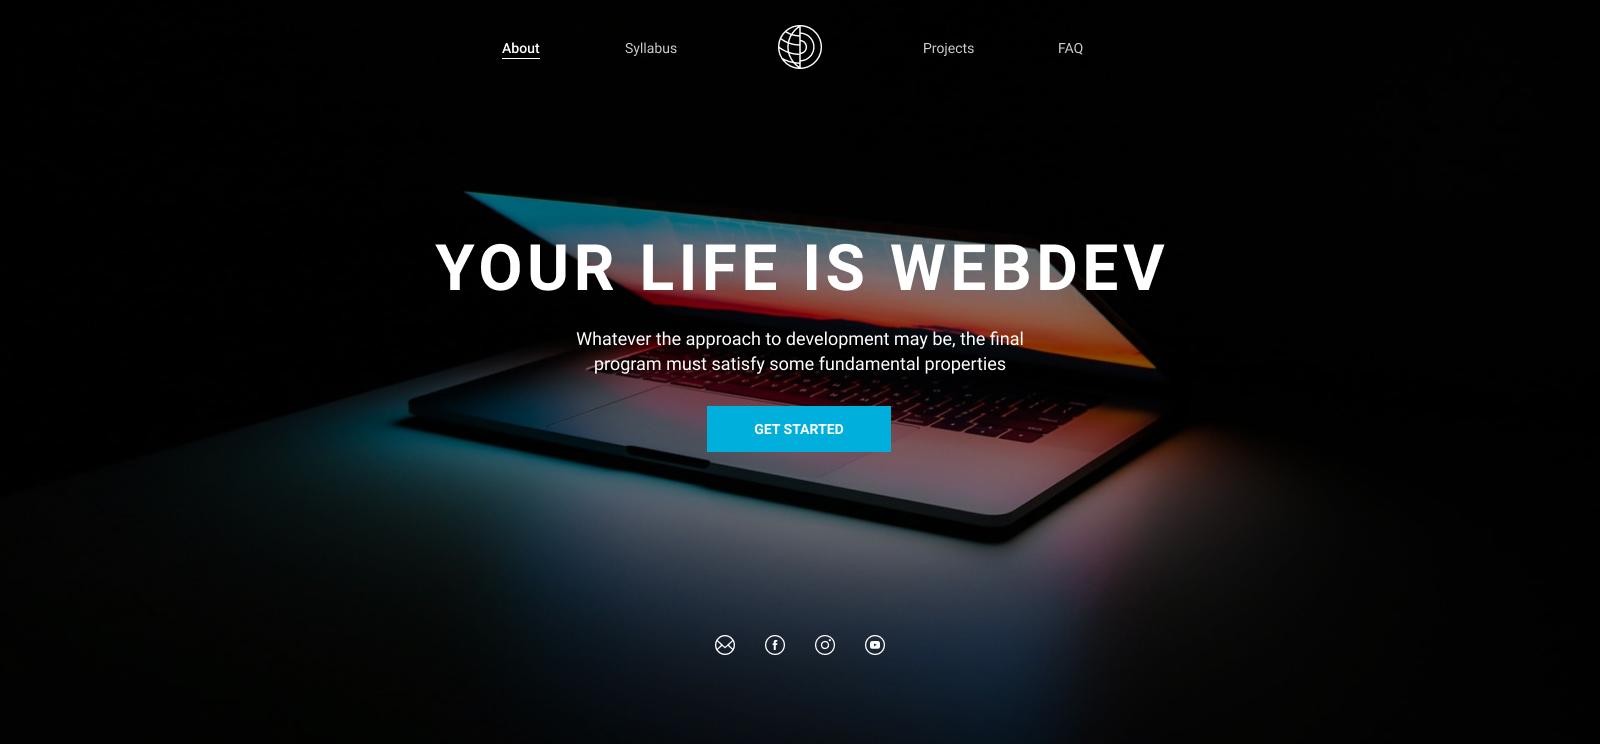
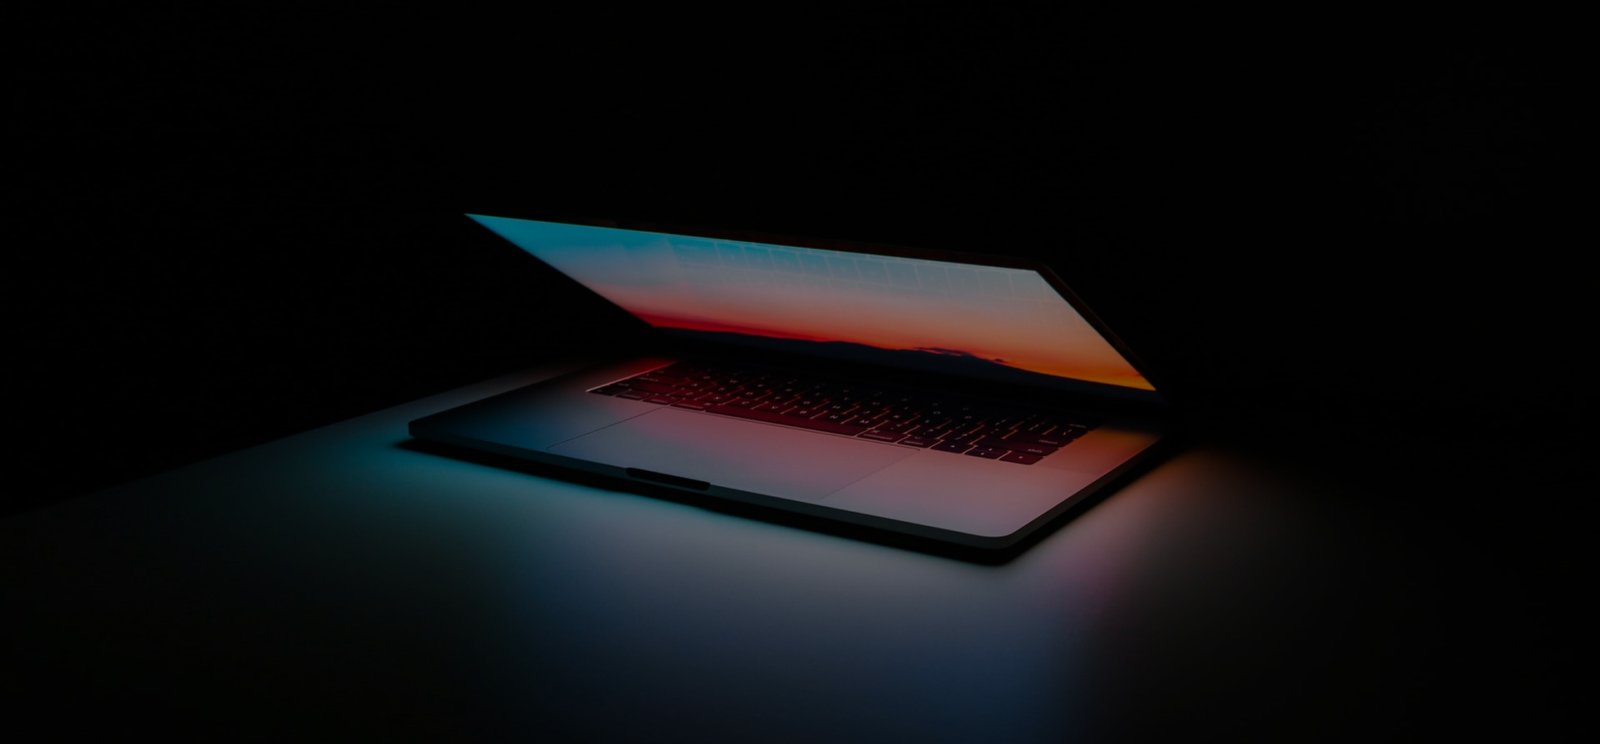
feat: add your-life part

diff --git a/index.html b/index.html
@@ -1,0 +1,95 @@
+<!DOCTYPE html>
+<html lang="en">
+<head>
+    <meta charset="UTF-8">
+    <meta name="viewport" content="width=device-width, initial-scale=1.0">
+    <title>Webdev</title>
+    <link rel="stylesheet" href="./reset.css">
+    <link rel="stylesheet" href="./style.css">
+</head>
+<body>
+    <header class="header">
+        <ul class="nav wrap">
+            <li class="nav-item">
+                <a href="#">About</a>
+            </li>
+            <li class="nav-item">
+                <a href="#">Syllabus</a>
+            </li>
+            <li class="nav-item">
+                <a href="#">
+                    <img class="nav-logo" src="./assets/vectors/1st_sceen_logo.svg" alt="logo">
+                </a>                
+            </li>
+            <li class="nav-item">
+                <a href="#">Projects</a>
+            </li>
+            <li class="nav-item">
+                <a href="#">FAQ</a>
+            </li>
+        </ul>
+    </header>
+    <main class="main">
+        <section class="your-life">
+            <div class="wrap your-life__position">
+                <h1 class="main-title">your life is webdev</h1>
+                <p class="your-life-description">Whatever the approach to 
+                    development may be, the final program must satisfy some 
+                    fundamental properties
+                </p>
+                <button class="your-life-get-started">get started</button>
+                <ul class="socials">
+                    <li class="socials-item">
+                        <a href="#">
+                            <svg width="20" height="20" viewBox="0 0 20 20" fill="none" xmlns="http://www.w3.org/2000/svg">
+                                <path d="M9.99781 0C4.51913 0 0.035774 4.45778 0.000227016 9.93778C-0.0175465 12.6089 1.00887 15.1289 2.88397 17.0267C4.75908 18.9289 7.26514 19.9822 9.9356 20C9.9356 20 9.99781 20 10.0023 20C15.4809 20 19.9643 15.5422 19.9998 10.0622C20.0309 4.55111 15.5742 0.0355556 9.99781 0ZM17.8537 13.6089L13.8858 10L17.8581 6.39111C18.3736 7.50667 18.6579 8.74667 18.6491 10.0533C18.6402 11.32 18.3558 12.5244 17.8537 13.6089ZM10.0511 1.34667C13.0415 1.36444 15.672 2.90667 17.2138 5.23111L9.99781 11.7911L7.50064 9.52L2.79066 5.24C4.3414 2.89778 7.01187 1.34667 10.0511 1.34667ZM2.14193 6.39111L6.10986 10L2.13304 13.6133C1.60873 12.48 1.33768 11.2311 1.34657 9.94667C1.35546 8.68 1.63983 7.47556 2.14193 6.39111ZM9.99781 18.6533H9.94005C7.62949 18.64 5.46557 17.7244 3.8393 16.08C3.4394 15.6756 3.08393 15.2356 2.77289 14.7689L7.06519 10.8711L9.56236 13.1378C9.68678 13.2489 9.84229 13.3067 9.99781 13.3067C10.1533 13.3067 10.3088 13.2489 10.4333 13.1378L12.9304 10.8711L17.2138 14.7644C15.6587 17.1022 13.0015 18.6533 9.99781 18.6533Z" fill="white"/>
+                            </svg>     
+                        </a>                                              
+                    </li>
+                    <li class="socials-item">
+                        <a href="#">
+                            <svg xmlns="http://www.w3.org/2000/svg" width="20" height="20" viewBox="0 0 20 20" fill="none">
+                                <path d="M8.6955 6.937V8.314H7.6875V9.997H8.6955V15H10.7675V9.997H12.1575C12.1575 9.997 12.2885 9.19 12.3515 8.307H10.7755V7.157C10.7755 6.984 11.0015 6.753 11.2255 6.753H12.3535V5H10.8185C8.6445 5 8.6955 6.685 8.6955 6.937Z" fill="white"/>
+                                <circle cx="10" cy="10" r="9.35" stroke="white" stroke-width="1.3"/>
+                            </svg>   
+                        </a>                                                                           
+                    </li>
+                    <li class="socials-item">
+                        <a href="#">
+                            <svg width="20" height="20" viewBox="0 0 20 20" fill="none" xmlns="http://www.w3.org/2000/svg">
+                                <path d="M15.5787 4.42128C15.7785 4.62103 15.8907 4.89196 15.8907 5.17447C15.8907 5.45697 15.7785 5.7279 15.5787 5.92766C15.379 6.12742 15.108 6.23964 14.8255 6.23964C14.543 6.23964 14.2721 6.12742 14.0723 5.92766C14.0248 5.87675 13.9808 5.82273 13.9404 5.76596C13.9011 5.70726 13.8683 5.64448 13.8426 5.57872C13.8163 5.51559 13.7963 5.45003 13.783 5.38298C13.7767 5.31361 13.7767 5.24383 13.783 5.17447C13.7848 4.89258 13.8962 4.62246 14.0936 4.42128C14.1436 4.37274 14.1977 4.3286 14.2553 4.28936C14.3711 4.21159 14.5013 4.15804 14.6383 4.13191C14.8068 4.10123 14.9801 4.1115 15.1438 4.16185C15.3075 4.21221 15.4566 4.30119 15.5787 4.42128ZM14.1149 10C14.1149 10.8138 13.8736 11.6094 13.4214 12.2861C12.9693 12.9628 12.3266 13.4902 11.5747 13.8017C10.8228 14.1131 9.99544 14.1946 9.19723 14.0358C8.39902 13.877 7.66581 13.4851 7.09033 12.9097C6.51486 12.3342 6.12295 11.601 5.96418 10.8028C5.8054 10.0046 5.88689 9.17719 6.19834 8.4253C6.50978 7.6734 7.0372 7.03074 7.71389 6.57859C8.39058 6.12644 9.18615 5.8851 10 5.8851C11.091 5.88623 12.137 6.32013 12.9084 7.09157C13.6799 7.86302 14.1138 8.90901 14.1149 10ZM12.8383 10C12.8383 9.43863 12.6718 8.88988 12.36 8.42312C12.0481 7.95637 11.6048 7.59258 11.0862 7.37775C10.5675 7.16293 9.99685 7.10672 9.44628 7.21624C8.8957 7.32575 8.38997 7.59608 7.99302 7.99302C7.59608 8.38996 7.32576 8.8957 7.21624 9.44627C7.10673 9.99685 7.16293 10.5675 7.37776 11.0862C7.59258 11.6048 7.95637 12.0481 8.42313 12.36C8.88988 12.6718 9.43864 12.8383 10 12.8383C10.7528 12.8383 11.4747 12.5393 12.007 12.007C12.5393 11.4747 12.8383 10.7528 12.8383 10ZM20 10C20 11.9778 19.4135 13.9112 18.3147 15.5557C17.2159 17.2002 15.6541 18.4819 13.8268 19.2388C11.9996 19.9957 9.98891 20.1937 8.0491 19.8078C6.10929 19.422 4.32746 18.4696 2.92894 17.0711C1.53041 15.6725 0.578004 13.8907 0.192152 11.9509C-0.1937 10.0111 0.00433284 8.00042 0.761209 6.17316C1.51809 4.3459 2.79981 2.78412 4.4443 1.6853C6.08879 0.58649 8.02219 0 10 0C12.6515 0.0022537 15.1937 1.05655 17.0686 2.93142C18.9435 4.8063 19.9977 7.34852 20 10ZM18.7234 10C18.7234 8.27467 18.2118 6.58809 17.2532 5.15353C16.2947 3.71898 14.9323 2.60088 13.3383 1.94062C11.7443 1.28037 9.99032 1.10762 8.29815 1.44421C6.60598 1.78081 5.05161 2.61163 3.83162 3.83162C2.61164 5.05161 1.78081 6.60597 1.44422 8.29815C1.10762 9.99032 1.28038 11.7443 1.94063 13.3383C2.60088 14.9323 3.71898 16.2947 5.15354 17.2532C6.5881 18.2118 8.27468 18.7234 10 18.7234C12.3126 18.72 14.5294 17.7999 16.1646 16.1646C17.7999 14.5294 18.72 12.3126 18.7234 10Z" fill="white"/>
+                            </svg>  
+                        </a>                        
+                    </li>
+                    <li class="socials-item">
+                        <a href="#">
+                            <svg width="20" height="20" viewBox="0 0 20 20" fill="none" xmlns="http://www.w3.org/2000/svg">
+                                <circle cx="10" cy="10" r="9.35" stroke="white" stroke-width="1.3"/>
+                                <path d="M11.603 9.733L9.357 8.685C9.161 8.594 9 8.696 9 8.913V10.887C9 11.104 9.161 11.206 9.357 11.115L11.602 10.067C11.799 9.975 11.799 9.825 11.603 9.733ZM10 13.8C5.086 13.8 5 13.357 5 9.9C5 6.443 5.086 6 10 6C14.914 6 15 6.443 15 9.9C15 13.357 14.914 13.8 10 13.8Z" fill="white"/>
+                            </svg> 
+                        </a>                        
+                    </li>
+                </ul>
+            </div>            
+        </section>
+        <section class="rappresent">
+            <article class="rappresent-article">
+                <h2 class="rappresent-title">Rappresent your idea with a smart Design</h2>
+                <p class="rappresent-decription">
+                    Tasks accompanying and related to programming include: testing, 
+                    debugging, source code maintenance, implementation of build 
+                    systems, and management of derived artifacts, such as the 
+                    machine code of computer programs. 
+                </p>
+                <button class="rappresent-get-started">get started</button>
+            </article>
+            <img class="rappresent-photo" src="./assets/images/2st_screen_photo.jpg" alt="photo">
+        </section>
+        <section class="community"></section>
+        <section class="implemet"></section>
+        <section class="subscribe"></section>
+        <section class="download"></section>
+    </main>
+    <footer class="footer"></footer>    
+</body>
+</html>

diff --git a/style.css b/style.css
@@ -1,0 +1,128 @@
+@import url('https://fonts.googleapis.com/css2?family=Roboto:wght@400;500;700&display=swap');
+
+body {
+    font-family: 'Roboto', sans-serif;
+}
+
+.wrap {
+    max-width: 1600px;
+    margin: auto;
+}
+
+/* HEADER */
+
+.header {
+    background-color: #000000;
+}
+
+.nav {
+    display: flex;
+    width: 582px;
+    padding: 25px 21px 22px 7px;
+    justify-content: space-between;
+    align-items: center;
+    font-size: 14px;
+    font-weight: 400;
+}
+
+.nav-item:nth-child(2) {
+    position: relative;
+    right: 7px;    
+}
+
+.nav-logo {
+    position: relative;
+    right: -1px;
+    transition: all .50s ease-in;
+}
+
+.nav-logo:hover {
+    transform: rotate(360deg);
+}
+
+.nav-item:nth-child(4) {
+    position: relative;
+    right: -9px;  
+}
+
+.nav-item a {
+    text-decoration: none;
+    color: #A3A3A3;
+    transition: all .25s ease-in;
+}
+
+.nav-item a:hover {
+    border-bottom: solid 1px #ffffff;
+    color: #ffffff;
+}
+
+/* SECTION --- your life ---*/
+
+.your-life {
+    padding: 141px 0px 0px 1px;
+    top: 0;
+    background-image: url(./assets/images/1st_screen_bg.jpg);
+    background-repeat: no-repeat;
+    background-position: center -117px;
+    background-color: black;
+}
+
+.your-life__position {
+    display: flex;
+    flex-direction: column;
+    align-items: center;
+}
+
+.main-title {
+    display: flex;
+    justify-content: center;
+    padding: 0 0 0 5px;
+    font-size: 64px;
+    font-weight: 700;
+    letter-spacing: 4.5px;
+    text-transform: uppercase;
+    color: #FFFFFF;
+}
+
+.your-life-description {
+    margin: 27px 0 0;
+    width: 450px;
+    font-size: 18px;    
+    text-align: center;
+    line-height: 25px;
+    color: white;
+}
+
+.your-life-get-started {
+    display: flex;
+    margin: 29px 0 0 0;
+    padding: 15px 43px 15px;
+    border: none;
+    font-size: 14px;
+    font-weight: 700;
+    text-transform: uppercase;
+    background-color: #00AFDB;
+    color: #FFFFFF;
+    cursor: pointer;
+    transition: all .25s ease-in;
+}
+
+.your-life-get-started:hover {
+    background-color: #005e75;
+}
+
+.socials {
+    display: flex;
+    margin: 183px 0 86px 0;
+    justify-content: space-between;
+    width: 170px;
+}
+
+.socials-item {
+    transition: all .25s ease-in;
+    cursor: pointer;
+}
+
+.socials-item:hover {
+    transform: scale(1.3);
+}

diff --git a/reset.css b/reset.css
@@ -1,0 +1,43 @@
+html, body, div, span, applet, object, iframe,
+h1, h2, h3, h4, h5, h6, p, blockquote, pre,
+a, abbr, acronym, address, big, cite, code,
+del, dfn, em, img, ins, kbd, q, s, samp,
+small, strike, strong, sub, sup, tt, var,
+b, u, i, center,
+dl, dt, dd, ol, ul, li,
+fieldset, form, label, legend,
+table, caption, tbody, tfoot, thead, tr, th, td,
+article, aside, canvas, details, embed, 
+figure, figcaption, footer, header, hgroup, 
+menu, nav, output, ruby, section, summary,
+time, mark, audio, video {
+	margin: 0;
+	padding: 0;
+	border: 0;
+	font-size: 100%;
+	font: inherit;
+	vertical-align: baseline;
+}
+/* HTML5 display-role reset for older browsers */
+article, aside, details, figcaption, figure, 
+footer, header, hgroup, menu, nav, section {
+	display: block;
+}
+body {
+	line-height: 1;
+}
+ol, ul {
+	list-style: none;
+}
+blockquote, q {
+	quotes: none;
+}
+blockquote:before, blockquote:after,
+q:before, q:after {
+	content: '';
+	content: none;
+}
+table {
+	border-collapse: collapse;
+	border-spacing: 0;
+}
